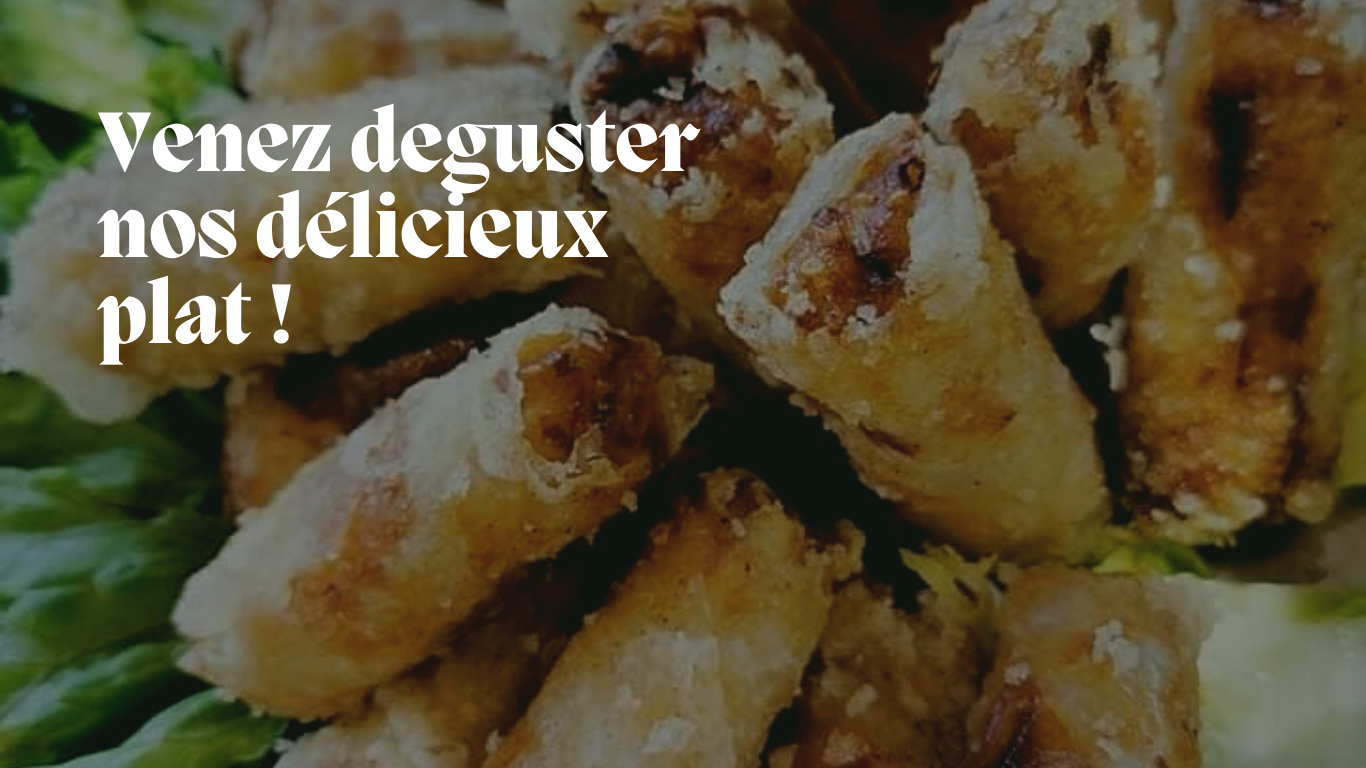
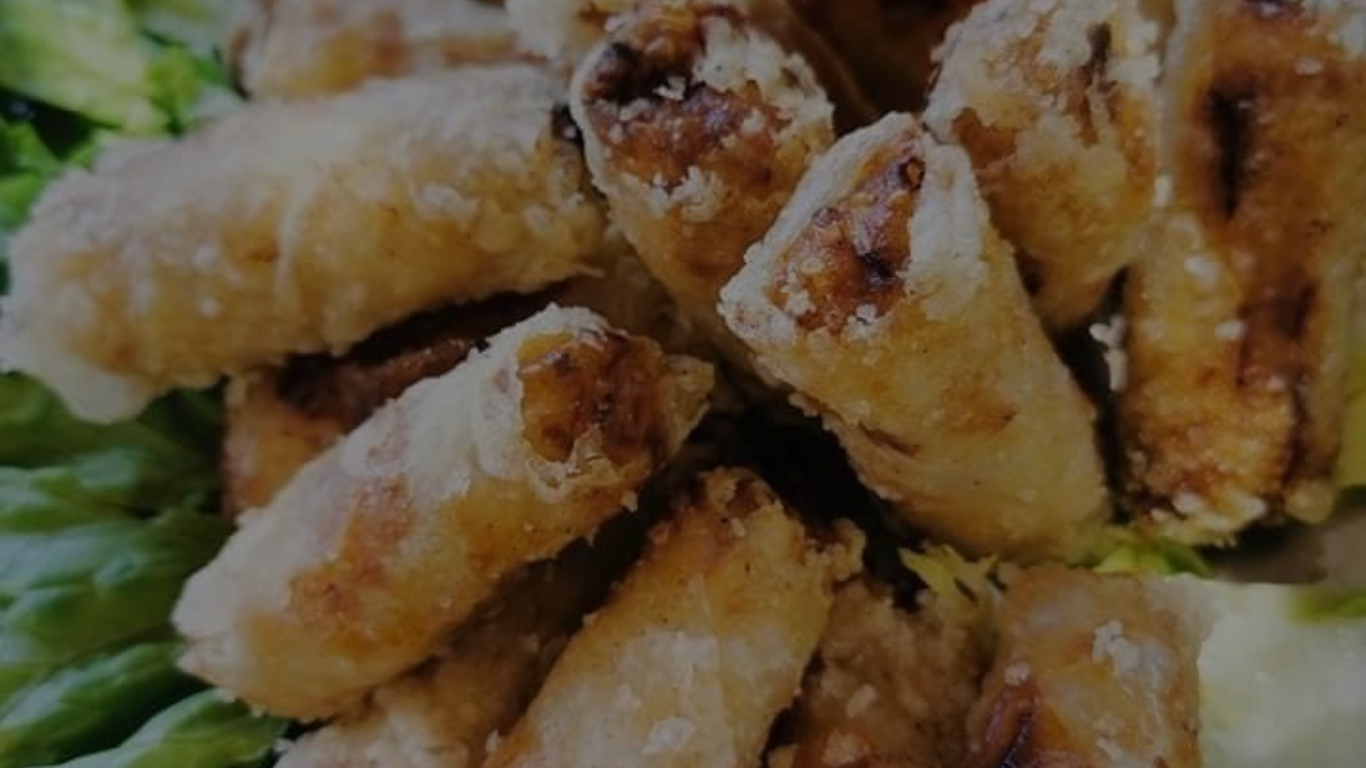
mise jour du style

Changed region(s): [[0.0615, 0.125, 0.5227, 0.5]]

diff --git a/src/views/HomeView.vue b/src/views/HomeView.vue
@@ -75,7 +75,9 @@
 
     <!-- 4eme partie -->
 
-    <div class="box-four-img"></div>
+    <div class="box-four-img">
+        <p>Venez deguster nos délicieux plat !</p>
+    </div>
 
     <!-- 5eme partie -->
     <div class="box-five-img">
@@ -87,7 +89,7 @@
         </div>
         <div class="box-carte">
             <div class="specialite">
-                <h6>SPÉCIALITÉS</h6>
+                <h4>SPÉCIALITÉS</h4>
                 <p><span class="red-letter">P</span>ad Thaï ....8€</p>
                 <p class="description">
                     Nouilles de riz , poulet, oignon, œuf, cacahuète, bœuf,
@@ -109,7 +111,7 @@
                 </p>
             </div>
             <div class="accompagnements">
-                <h6>ACCOMPAGNEMENTS</h6>
+                <h4>ACCOMPAGNEMENTS</h4>
                 <p><span class="red-letter">N</span>ems x6 ....8€</p>
                 <p><span class="red-letter">S</span>amosas x6 ....8€</p>
                 <p><span class="red-letter">G</span>yosa x6 ....8€</p>
@@ -161,15 +163,22 @@ export default {
 .box-img-home {
     background-image: url(../assets/Home.png);
     width: 100%;
-    height: 255px;
+    height: 844px;
     background-position: center;
     background-size: cover;
+
+    display: flex;
+    justify-content: center;
+    align-items: center;
 }
 
 .d-flex {
     color: white;
     padding-top: 77px;
     padding-left: 15px;
+    display: flex;
+    justify-content: center;
+    align-items: center;
 }
 
 .first-title {
@@ -185,17 +194,16 @@ export default {
 
 /*  2eme partie */
 
-.box-second-container {
-    display: flex;
-    justify-content: center;
-    align-content: center;
-}
 .box-img-second {
     background-image: url(../assets/2.png);
     width: 100%;
-    height: auto;
+    height: 844px;
     background-position: center;
     background-size: cover;
+
+    display: flex;
+    justify-content: space-evenly;
+    flex-direction: column;
 }
 .box-img-second h1 {
     font-size: 30px;
@@ -212,17 +220,26 @@ export default {
     padding: 15px;
 }
 .box-second-info-1 {
-    width: 50%;
+    width: 100%;
+    height: 315px;
     text-align: left;
     font-size: 10px;
     font-weight: 500;
+
+    display: flex;
+    justify-content: center;
+    flex-direction: column;
+    align-items: center;
 }
 .box-info-img {
     background-image: url(../assets/carte_recto.jpeg);
     background-position: center;
     background-size: cover;
-    width: 50%;
-    height: auto;
+    width: 100%;
+    height: 529px;
+}
+.box-info-text {
+    width: 70%;
 }
 
 /* 3eme partie */
@@ -255,12 +272,24 @@ export default {
 
 /* 4eme partie */
 
+@import url("https://fonts.googleapis.com/css2?family=Lobster&display=swap");
+
 .box-four-img {
     background-image: url(../assets/4.png);
     background-position: center;
     background-size: cover;
-    height: 250px;
+    height: 594px;
     width: 100%;
+}
+
+.box-four-img {
+    display: flex;
+    justify-content: center;
+    align-items: center;
+    text-align: center;
+    color: white;
+    font-family: "Lobster", cursive;
+    font-size: 60px;
 }
 
 /* 5eme partie */
@@ -269,8 +298,9 @@ export default {
     background-image: url(../assets/5.png);
     background-position: center;
     background-size: cover;
-    height: auto;
+    height: 844px;
     width: 100%;
+    padding: 15px;
 }
 
 .box-five-info {
@@ -281,31 +311,39 @@ export default {
 }
 
 .specialite {
-    width: 40%;
+    width: 100%;
     font-size: 14px;
     font-weight: 600;
+}
+.specialite h4 {
+    text-align: center;
 }
 .accompagnements {
-    width: 40%;
+    width: 100%;
     font-size: 14px;
     font-weight: 600;
 }
-
+.accompagnements h4 {
+    text-align: center;
+}
 .box-carte {
     display: flex;
-    justify-content: space-around;
+    justify-content: space-evenly;
+    align-items: center;
+    flex-direction: column;
+    height: 100%;
 }
-
 /* 6eme partie */
 .box-six-img {
     background-image: url(../assets/6.png);
     background-position: center;
     background-size: cover;
-    height: 250px;
+    height: 844px;
     width: 100%;
 
     display: flex;
-    justify-content: center;
+    justify-content: space-evenly;
+    flex-direction: column;
     align-items: center;
 }
 
@@ -317,8 +355,8 @@ export default {
 }
 .box-camion-img {
     background-image: url(../assets/camion.jpg);
-    width: 40%;
-    height: 172px;
+    width: 84%;
+    height: 269px;
     background-position: center;
     background-size: cover;
 }
